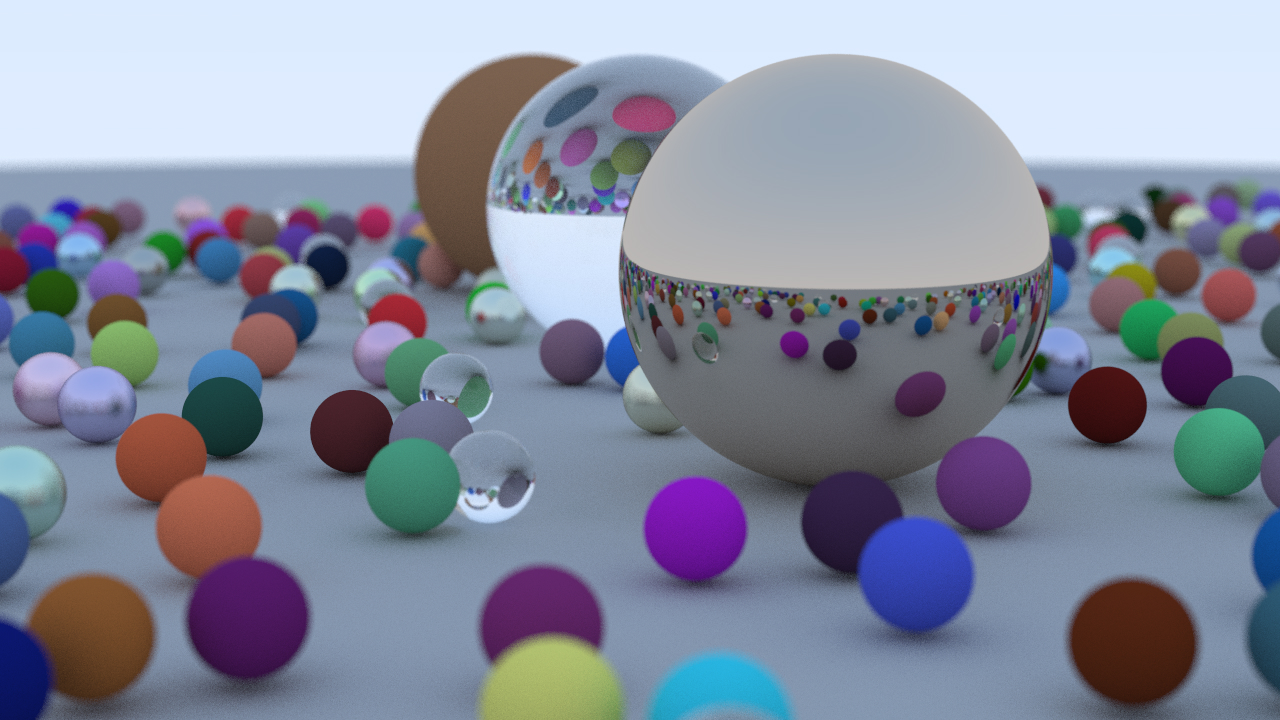
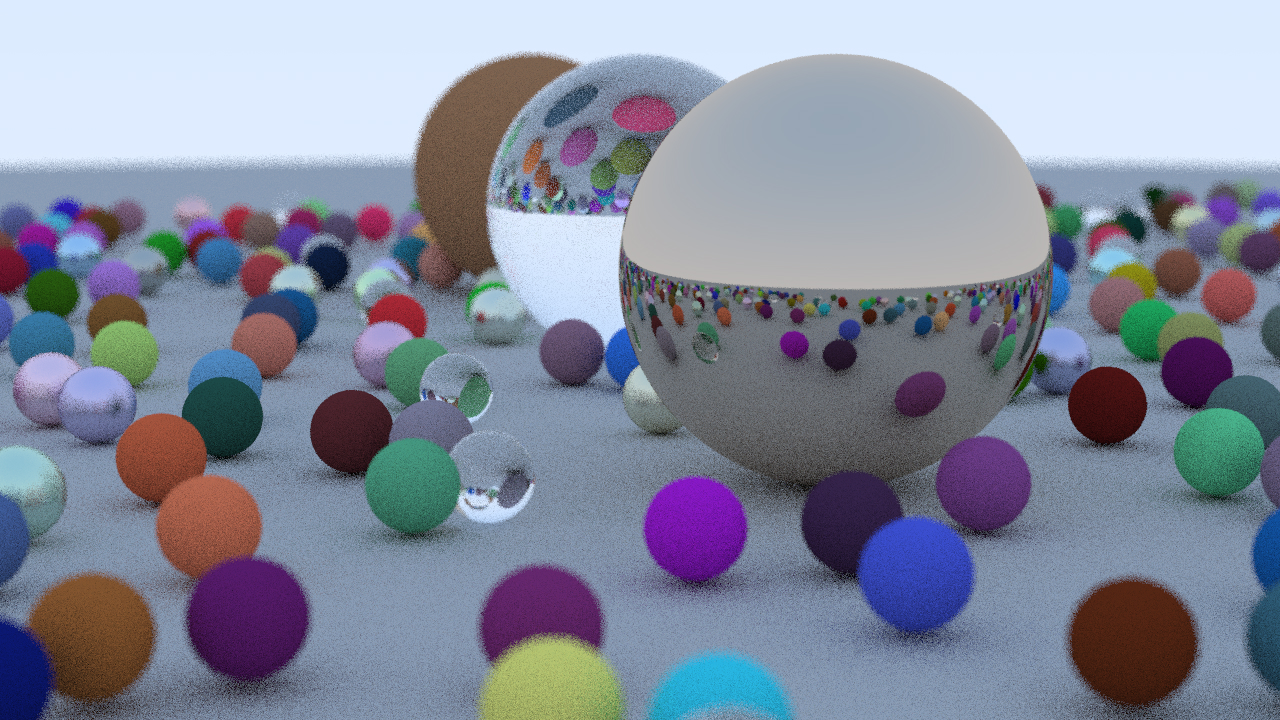
Small code improvements.

diff --git a/RTIOW/libs/camera.h b/RTIOW/libs/camera.h
@@ -25,19 +25,21 @@ public:
 	double defocus_angle = 0; // Variation angle of rays through each pixel.
 	double focus_distance = 10; // Distance from camera lookfrom point to plane of perfect focus.
 
-	void render(const hittable& world, std::ofstream& output_file)
+	void render(const hittable& world, const char* output_filename)
 	{
 		initialize();
 
-		output_file << "P3\n" << image_width << ' ' << image_height << "\n255\n";
+		unsigned char* buffer = new unsigned char[image_height * image_width * 3];
+		double pixel_samples_scale = 1.0 / samples_per_pixel;
 
 		for (int j = 0; j < image_height; ++j)
 		{
-			std::clog << '\r' << "Lines remaining: " << (image_height - j) << ' ' << std::flush;
+			std::clog << '\r' << "Lines remaining: " << (image_height - j) << '.' << std::flush;
 
 			for (int i = 0; i < image_width; ++i)
 			{
 				color pixel_color(0.0, 0.0, 0.0);
+				int stride = (j * image_width + i) * 3;
 
 				for (int sample = 0; sample < samples_per_pixel; ++sample)
 				{
@@ -45,18 +47,24 @@ public:
 					pixel_color += get_ray_color(r, max_depth, world);
 				}
 
-				write_color(output_file, pixel_color, samples_per_pixel);
+				write_color_into_buffer(buffer, stride, pixel_samples_scale * pixel_color);
 			}
 		}
 
-		std::clog << '\r' << "Done." << "                " << std::endl;
+		std::clog << '\n' << "Done!" << std::endl;
+
+		stbi_write_jpg(output_filename, image_width, image_height, 3, buffer, 100);
+
+		delete[] buffer;
 	}
 
-	void render(const hittable& world, const char* filename)
+	// Rendering with multirhreading.
+	void render_mt(const hittable& world, const char* output_filename)
 	{
 		initialize();
 
 		unsigned char* buffer = new unsigned char[image_height * image_width * 3];
+		double pixel_samples_scale = 1.0 / samples_per_pixel;
 		uint32_t completed_tasks = 0;
 		thread_pool tp;
 
@@ -65,8 +73,8 @@ public:
 			for (int i = 0; i < image_width; ++i)
 			{
 				tp.enqueue([&, i, j] {
-					int stride = (j * image_width + i) * 3;
 					color pixel_color(0.0, 0.0, 0.0);
+					int stride = (j * image_width + i) * 3;
 
 					for (int sample = 0; sample < samples_per_pixel; ++sample)
 					{
@@ -74,14 +82,14 @@ public:
 						pixel_color += get_ray_color(r, max_depth, world);
 					}
 
-					write_color(buffer, stride, pixel_color, samples_per_pixel);
+					write_color_into_buffer(buffer, stride, pixel_samples_scale * pixel_color);
 				});
 			}
 		}
 
 		tp.terminate();
 
-		stbi_write_jpg(filename, image_width, image_height, 3, buffer, 100);
+		stbi_write_jpg(output_filename, image_width, image_height, 3, buffer, 100);
 
 		delete[] buffer;
 	}
@@ -138,22 +146,21 @@ private:
 		// Get a randomly sampled camera ray for the pixel at location (i, j), originating
 		// from the camera defocus disk.
 
-		point3 pixel_center = pixel00_loc + (i * pixel_delta_u) + (j * pixel_delta_v);
-		point3 pixel_sample = pixel_center + pixel_sample_square();
+		point3 pixel_offset = square_sample();
+		point3 pixel_sample = pixel00_loc
+							+ ((i + pixel_offset.x()) * pixel_delta_u)
+							+ ((j + pixel_offset.y()) * pixel_delta_v);
 
-		point3 ray_origin = (defocus_angle <= 0.0) ? center : defocus_disk_sample();;
+		point3 ray_origin = (defocus_angle <= 0.0) ? center : defocus_disk_sample();
 		vec3 ray_direction = pixel_sample - ray_origin;
 
 		return ray(ray_origin, ray_direction);
 	}
 
-	vec3 pixel_sample_square() const
+	vec3 square_sample() const
 	{
-		double px = -0.5 + random_double();
-		double py = -0.5 + random_double();
-
-		// Returns a random point in the square surrounding a pixel at the origin.
-		return (px * pixel_delta_u) + (py * pixel_delta_v);
+		// Returns the vector to a random point in the [-0.5,-0.5]-[+0.5,+0.5] unit square.
+		return vec3(random_double() - 0.5, random_double() - 0.5, 0);
 	}
 
 	point3 defocus_disk_sample() const

diff --git a/RTIOW/libs/material.h b/RTIOW/libs/material.h
@@ -47,9 +47,10 @@ public:
     bool scatter(const ray& r_in, const hit_record& rec, color& attenuation, ray& scattered) const override
     {
         vec3 reflected = reflect(unit_vector(r_in.get_direction()), rec.normal);
+        vec3 scatter_direction = reflected + fuzz * random_unit_vector();
 
         attenuation = albedo;
-        scattered = ray(rec.p, reflected + fuzz * random_unit_vector());
+        scattered = ray(rec.p, scatter_direction);
 
         return dot(scattered.get_direction(), rec.normal) > 0;
     }
@@ -62,16 +63,16 @@ private:
 class dielectric : public material
 {
 public:
-    dielectric(double index_of_refraction) : ir(index_of_refraction) {}
+    dielectric(double _refraction_index) : refraction_index(_refraction_index) {}
 
     bool scatter(const ray& r_in, const hit_record& rec, color& attenuation, ray& scattered) const override
     {
+        vec3 scatter_direction;
         vec3 unit_direction = unit_vector(r_in.get_direction());
-        vec3 direction;
 
-        double cos_theta = fmin(dot(-unit_direction, rec.normal), 1.0);
-        double sin_theta = sqrt(1.0 - cos_theta * cos_theta);
-        double refraction_ratio = rec.front_face ? (1.0 / ir) : ir;
+        double refraction_ratio = rec.front_face ? (1.0 / refraction_index) : refraction_index;
+        double cos_theta = std::fmin(dot(-unit_direction, rec.normal), 1.0);
+        double sin_theta = std::sqrt(1.0 - cos_theta * cos_theta);
 
         bool cannot_refract = false;
         cannot_refract |= refraction_ratio * sin_theta > 1.0;
@@ -79,28 +80,28 @@ public:
 
         if (cannot_refract)
         {
-            direction = reflect(unit_direction, rec.normal);
+            scatter_direction = reflect(unit_direction, rec.normal);
         }
         else
         {
-            direction = refract(unit_direction, rec.normal, refraction_ratio);
+            scatter_direction = refract(unit_direction, rec.normal, refraction_ratio);
         }
 
         attenuation = color(1.0, 1.0, 1.0);
-        scattered = ray(rec.p, direction);
+        scattered = ray(rec.p, scatter_direction);
 
         return true;
     }
 
 private:
-    double ir; // Index of refraction.
+    double refraction_index;
 
-    static double reflectance(double cosine, double ref_idx)
+    static double reflectance(double cosine, double refraction_index)
     {
         // Use Schlick's approximation for reflectance.
-        double r0 = (1 - ref_idx) / (1 + ref_idx);
+        double r0 = (1 - refraction_index) / (1 + refraction_index);
         r0 = r0 * r0;
 
-        return r0 + (1 - r0) * pow((1 - cosine), 5);
+        return r0 + (1 - r0) * std::pow((1 - cosine), 5);
     }
 };

diff --git a/RTIOW/libs/color.h b/RTIOW/libs/color.h
@@ -8,20 +8,14 @@ using color = vec3;
 
 inline double linear_to_gamma(double linear_component)
 {
-    return sqrt(linear_component);
+    return (linear_component > 0) ? std::sqrt(linear_component) : 0.0;
 }
 
-void write_color(std::ofstream& output_file, color pixel_color, int samples_per_pixel)
+void write_color_into_file(std::ofstream& output_file, color pixel_color)
 {
     double r = pixel_color.x();
     double g = pixel_color.y();
     double b = pixel_color.z();
-
-    // Divide the color by the number of samples.
-    auto scale = 1.0 / samples_per_pixel;
-    r *= scale;
-    g *= scale;
-    b *= scale;
 
     // Apply the linear to gamma transform.
     r = linear_to_gamma(r);
@@ -35,17 +29,11 @@ void write_color(std::ofstream& output_file, color pixel_color, int samples_per_
                 << static_cast<int>(256 * intensity.clamp(b)) << '\n';
 }
 
-void write_color(unsigned char* buffer, int stride, color pixel_color, int samples_per_pixel)
+void write_color_into_buffer(unsigned char* buffer, int stride, color pixel_color)
 {
     double r = pixel_color.x();
     double g = pixel_color.y();
     double b = pixel_color.z();
-
-    // Divide the color by the number of samples.
-    auto scale = 1.0 / samples_per_pixel;
-    r *= scale;
-    g *= scale;
-    b *= scale;
 
     // Apply the linear to gamma transform.
     r = linear_to_gamma(r);

diff --git a/RTIOW/main.cpp b/RTIOW/main.cpp
@@ -2,7 +2,7 @@
 
 #define STB_IMAGE_IMPLEMENTATION
 #define STB_IMAGE_WRITE_IMPLEMENTATION
-#define _CRT_SECURE_NO_WARNINGS
+#define _CRT_SECURE_NO_WARNINGS // FIXME.
 
 #include "libs/common.h"
 
@@ -15,11 +15,6 @@
 
 int main()
 {
-    // Image (output).
-    std::ofstream image_file;
-
-    image_file.open("outputs/image.ppm");
-
     // World.
     hittable_list world;
 
@@ -78,8 +73,8 @@ int main()
 
     cam.aspect_ratio = 16.0 / 9.0;
     cam.image_width = 1280;
-    cam.samples_per_pixel = 150;
-    cam.max_depth = 50;
+    cam.samples_per_pixel = 10;
+    cam.max_depth = 20;
 
     cam.vfov = 20.0;
     cam.lookfrom = point3(13.0, 2.0, 3.0);
@@ -89,9 +84,7 @@ int main()
     cam.defocus_angle = 0.6;
     cam.focus_distance = 10.0;
 
-    cam.render(world, "outputs/image.jpg");
-
-    image_file.close();
+    cam.render_mt(world, "outputs/book1/image.jpg");
 
 	return 0;
 }

diff --git a/RTIOW/libs/thread_pool.h b/RTIOW/libs/thread_pool.h
@@ -60,6 +60,7 @@ private:
 					condition.wait(lock, [this] { return stop || !tasks.empty(); });
 					if (stop && tasks.empty()) { return; }
 
+					// Retrieve a task from the queue.
 					auto task = std::move(tasks.front());
 					tasks.pop();
 					num_dispatched_tasks++;
@@ -68,7 +69,8 @@ private:
 
 					lock.unlock();
 
-					task(); // Execute the task.
+					// Execute the task.
+					task();
 				}
 			});
 		}
